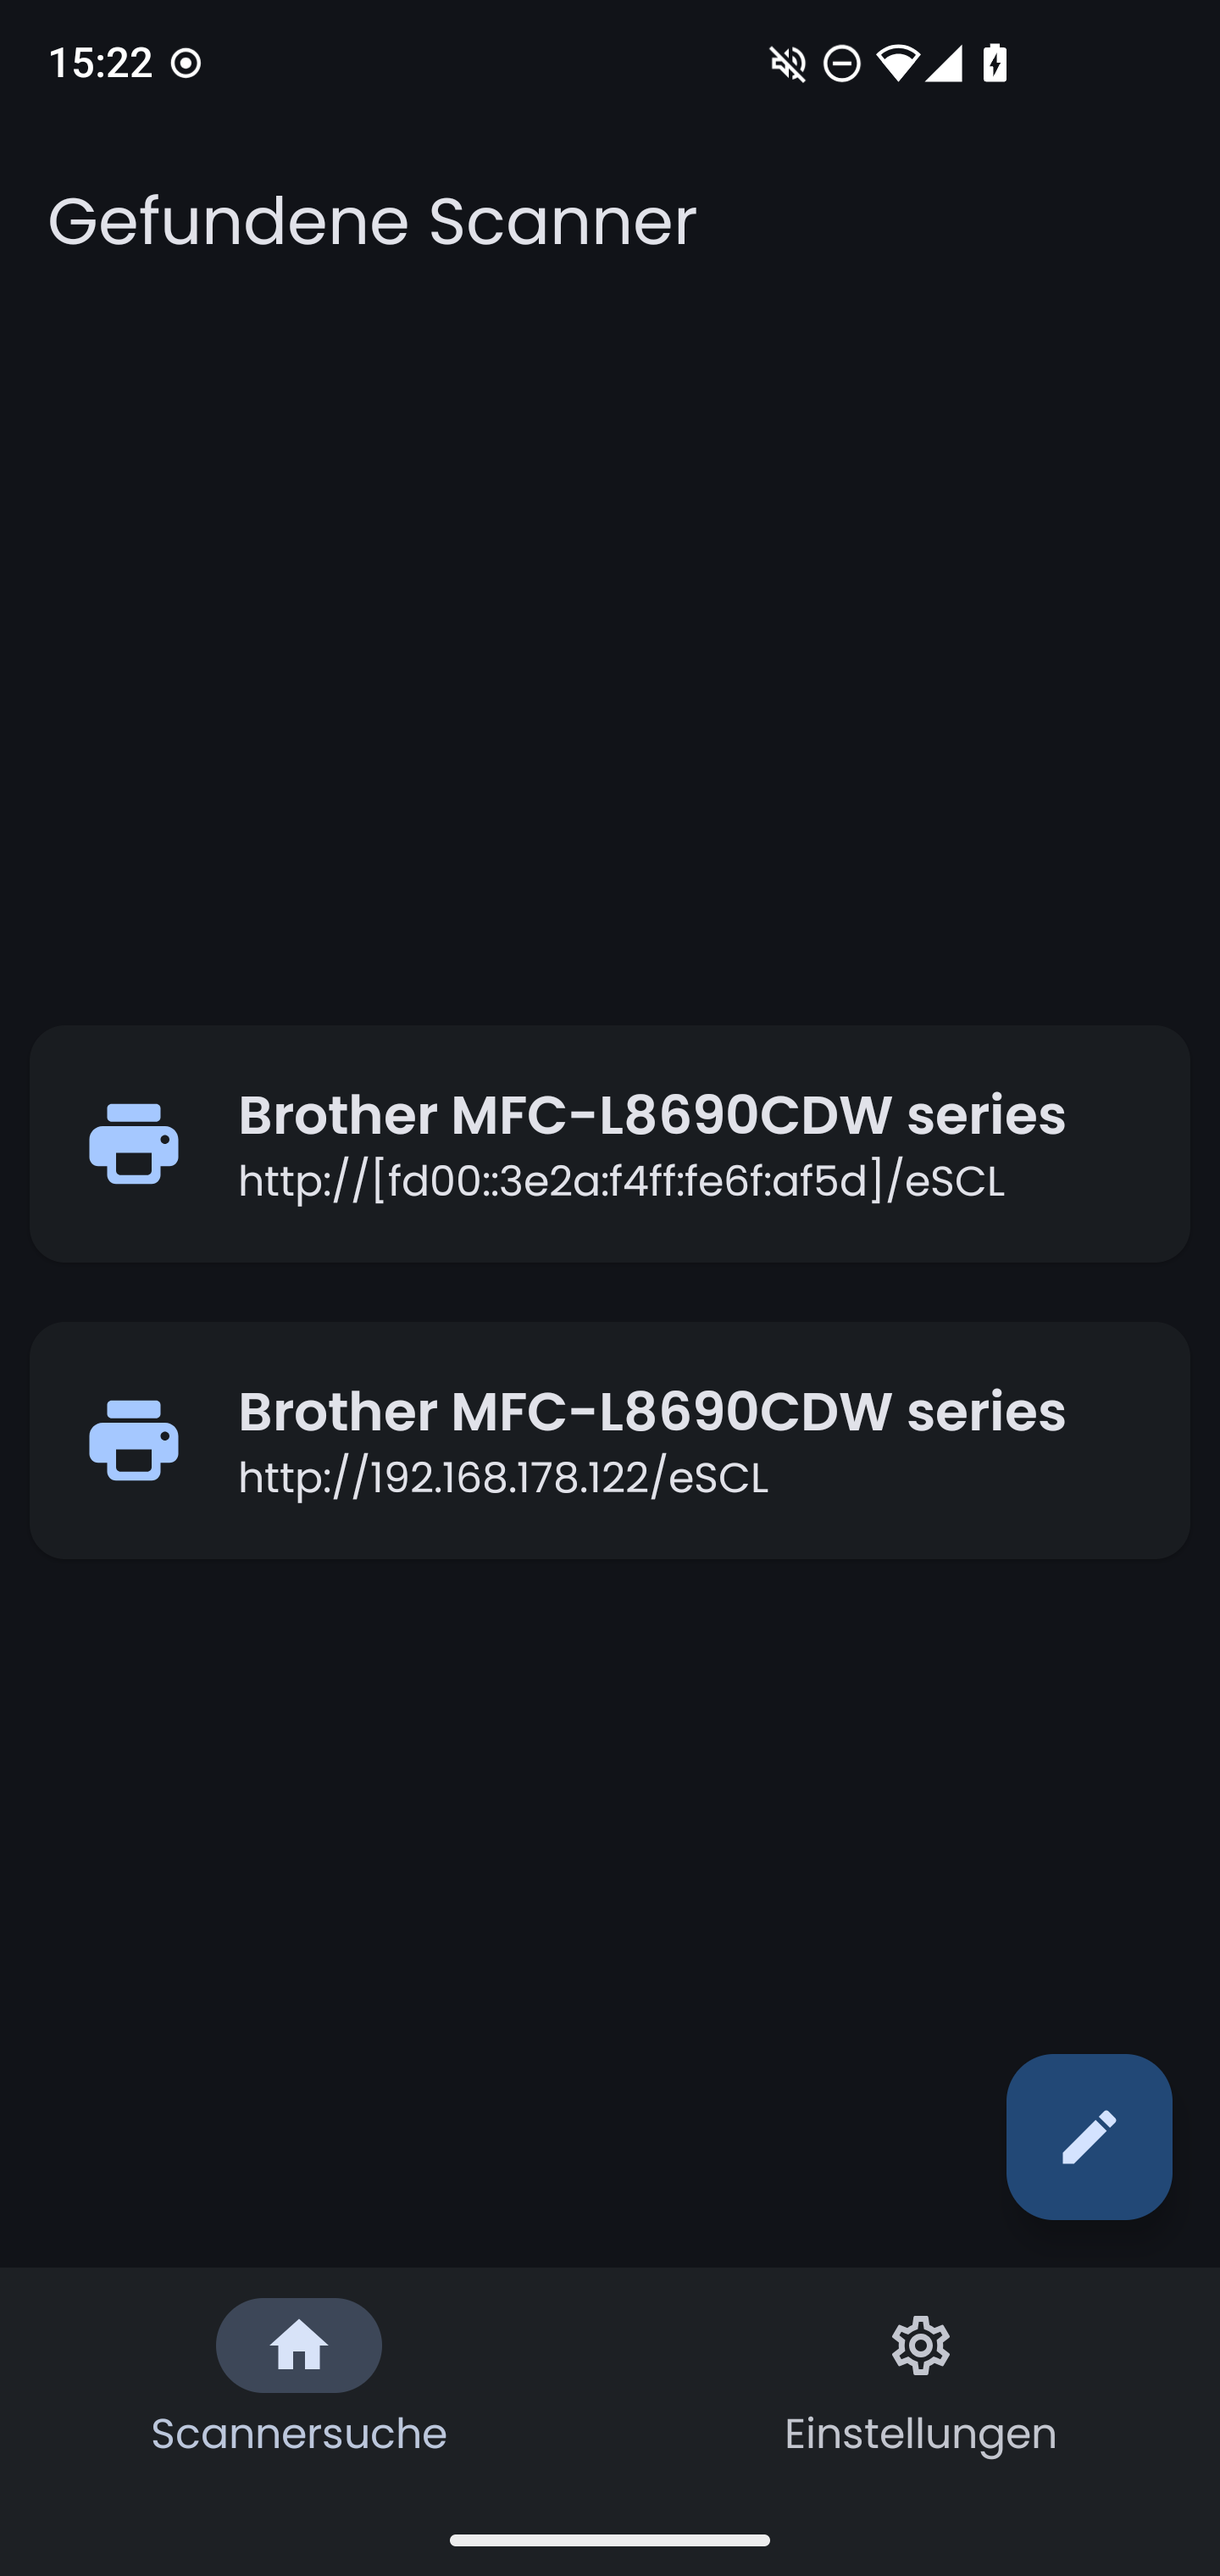
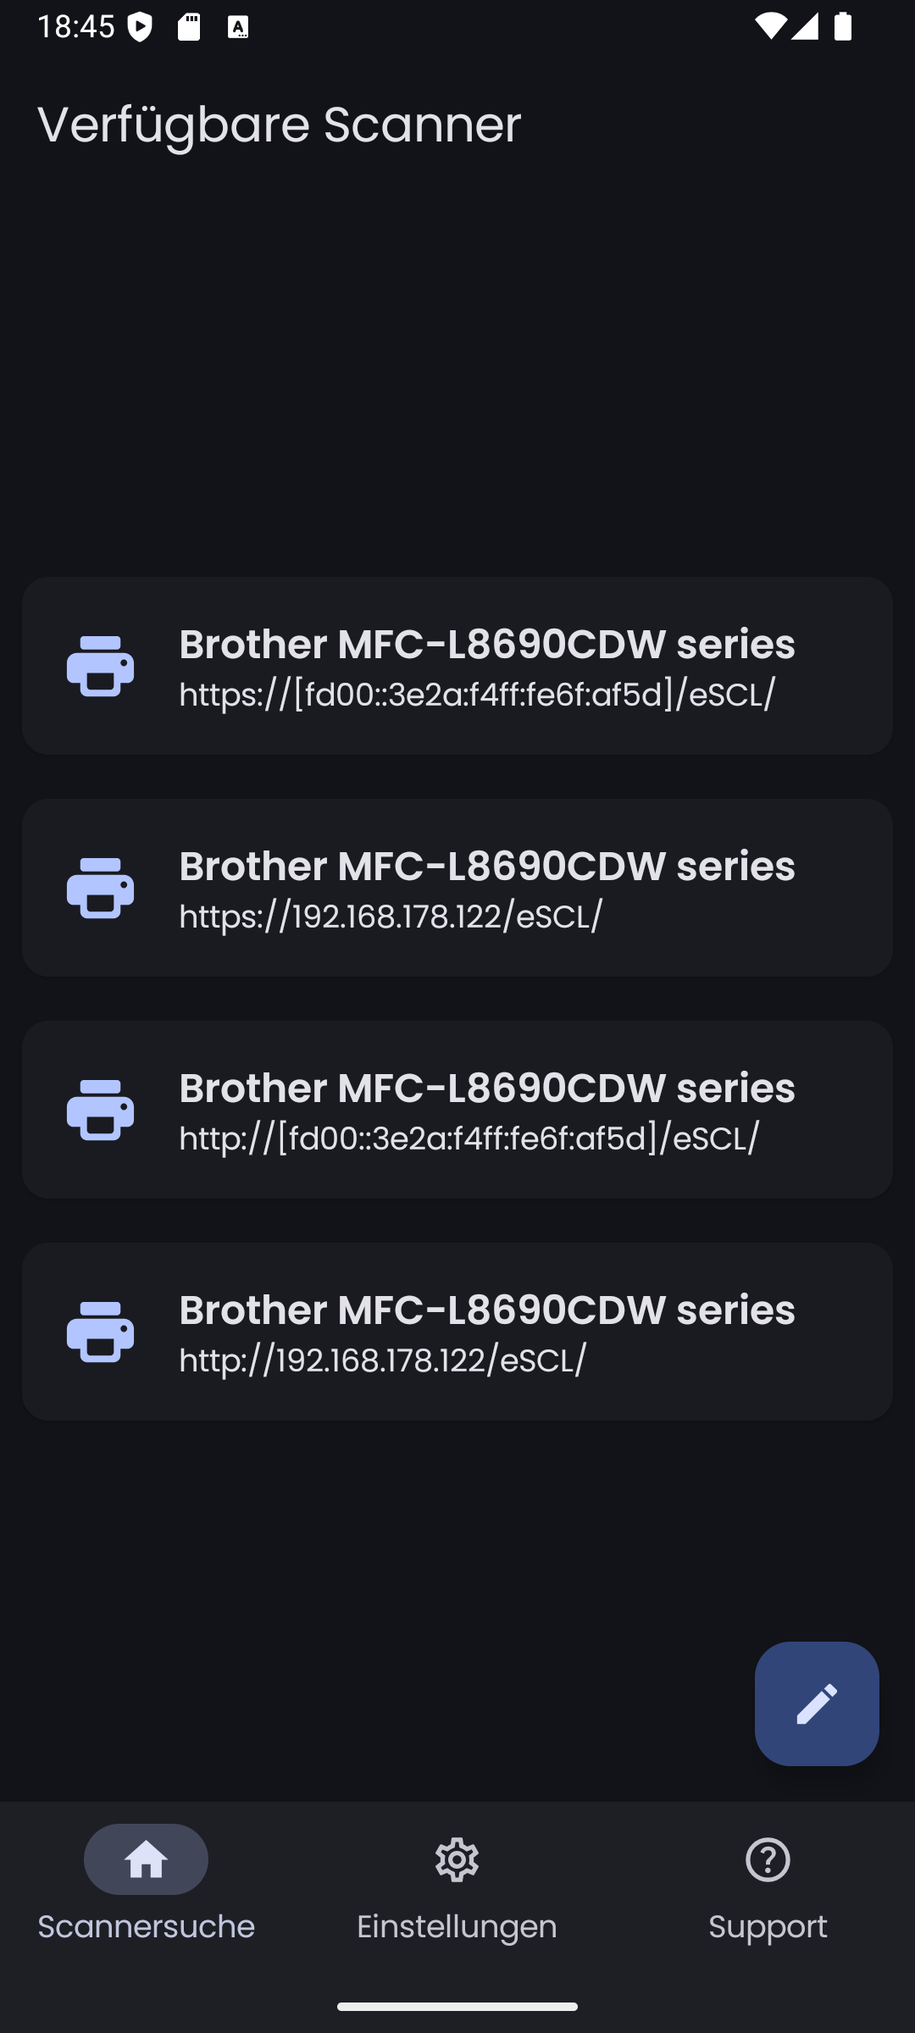
Release v1.6.1

diff --git a/app/src/main/java/io/github/chrisimx/scanbridge/AppSettingsScreen.kt b/app/src/main/java/io/github/chrisimx/scanbridge/AppSettingsScreen.kt
@@ -23,11 +23,11 @@ import android.content.Context.MODE_PRIVATE
 import android.content.Intent
 import android.content.SharedPreferences
 import androidx.activity.compose.LocalActivity
+import androidx.compose.foundation.layout.Arrangement
 import androidx.compose.foundation.layout.Box
 import androidx.compose.foundation.layout.Column
 import androidx.compose.foundation.layout.FlowRow
 import androidx.compose.foundation.layout.PaddingValues
-import androidx.compose.foundation.layout.Row
 import androidx.compose.foundation.layout.fillMaxSize
 import androidx.compose.foundation.layout.fillMaxWidth
 import androidx.compose.foundation.layout.padding
@@ -268,10 +268,13 @@ fun AppSettingsScreen(innerPadding: PaddingValues) {
 
         val isFdroidVariant = BuildConfig.FLAVOR == "fdroid"
         val padding = if (isFdroidVariant) 16.dp else 10.dp
-        Row(modifier = Modifier.padding(vertical = padding), verticalAlignment = Alignment.CenterVertically) {
+        FlowRow(
+            modifier = Modifier.padding(vertical = padding),
+            verticalArrangement = Arrangement.spacedBy(12.dp, Alignment.CenterVertically),
+            horizontalArrangement = Arrangement.spacedBy(12.dp, Alignment.CenterHorizontally)
+        ) {
             if (isFdroidVariant) {
                 Button(
-                    modifier = Modifier.padding(horizontal = 8.dp),
                     onClick = {
                         val intent = Intent(Intent.ACTION_VIEW, "https://github.com/sponsors/Chrisimx".toUri())
                         context.startActivity(intent)

diff --git a/CHANGELOG.md b/CHANGELOG.md
@@ -4,6 +4,26 @@ All notable changes to this project will be documented in this file.
 
 The format is based on [Keep a Changelog](https://keepachangelog.com/en/1.1.0/).
 
+## [1.6.1] - 2026-01-17
+
+### Added
+- Feature for exporting directly to a file (2c5e684d)
+
+### Changed
+- Upgrade AGP from 8.11.1 to 8.13.2 (20e68506)
+- Adjust user interface for tablets and larger screens
+
+### Fixed
+- German translation of 'saved scanners' corrected (6aa87f1c)
+- Temp files not being deleted after session (8f2d4a79)
+- ADF-only scanners not usable (#112, fixed in e696325c)
+
+## [1.6.0] - 2026-01-07
+
+### Added
+- First Google Play release
+- Support interface in Google Play version
+
 ## [1.5.0] - 2025-10-12
 ### Added
 - Italian localization (c2881f5d). Thanks so much to @LucaMaroglio for the contribution!
